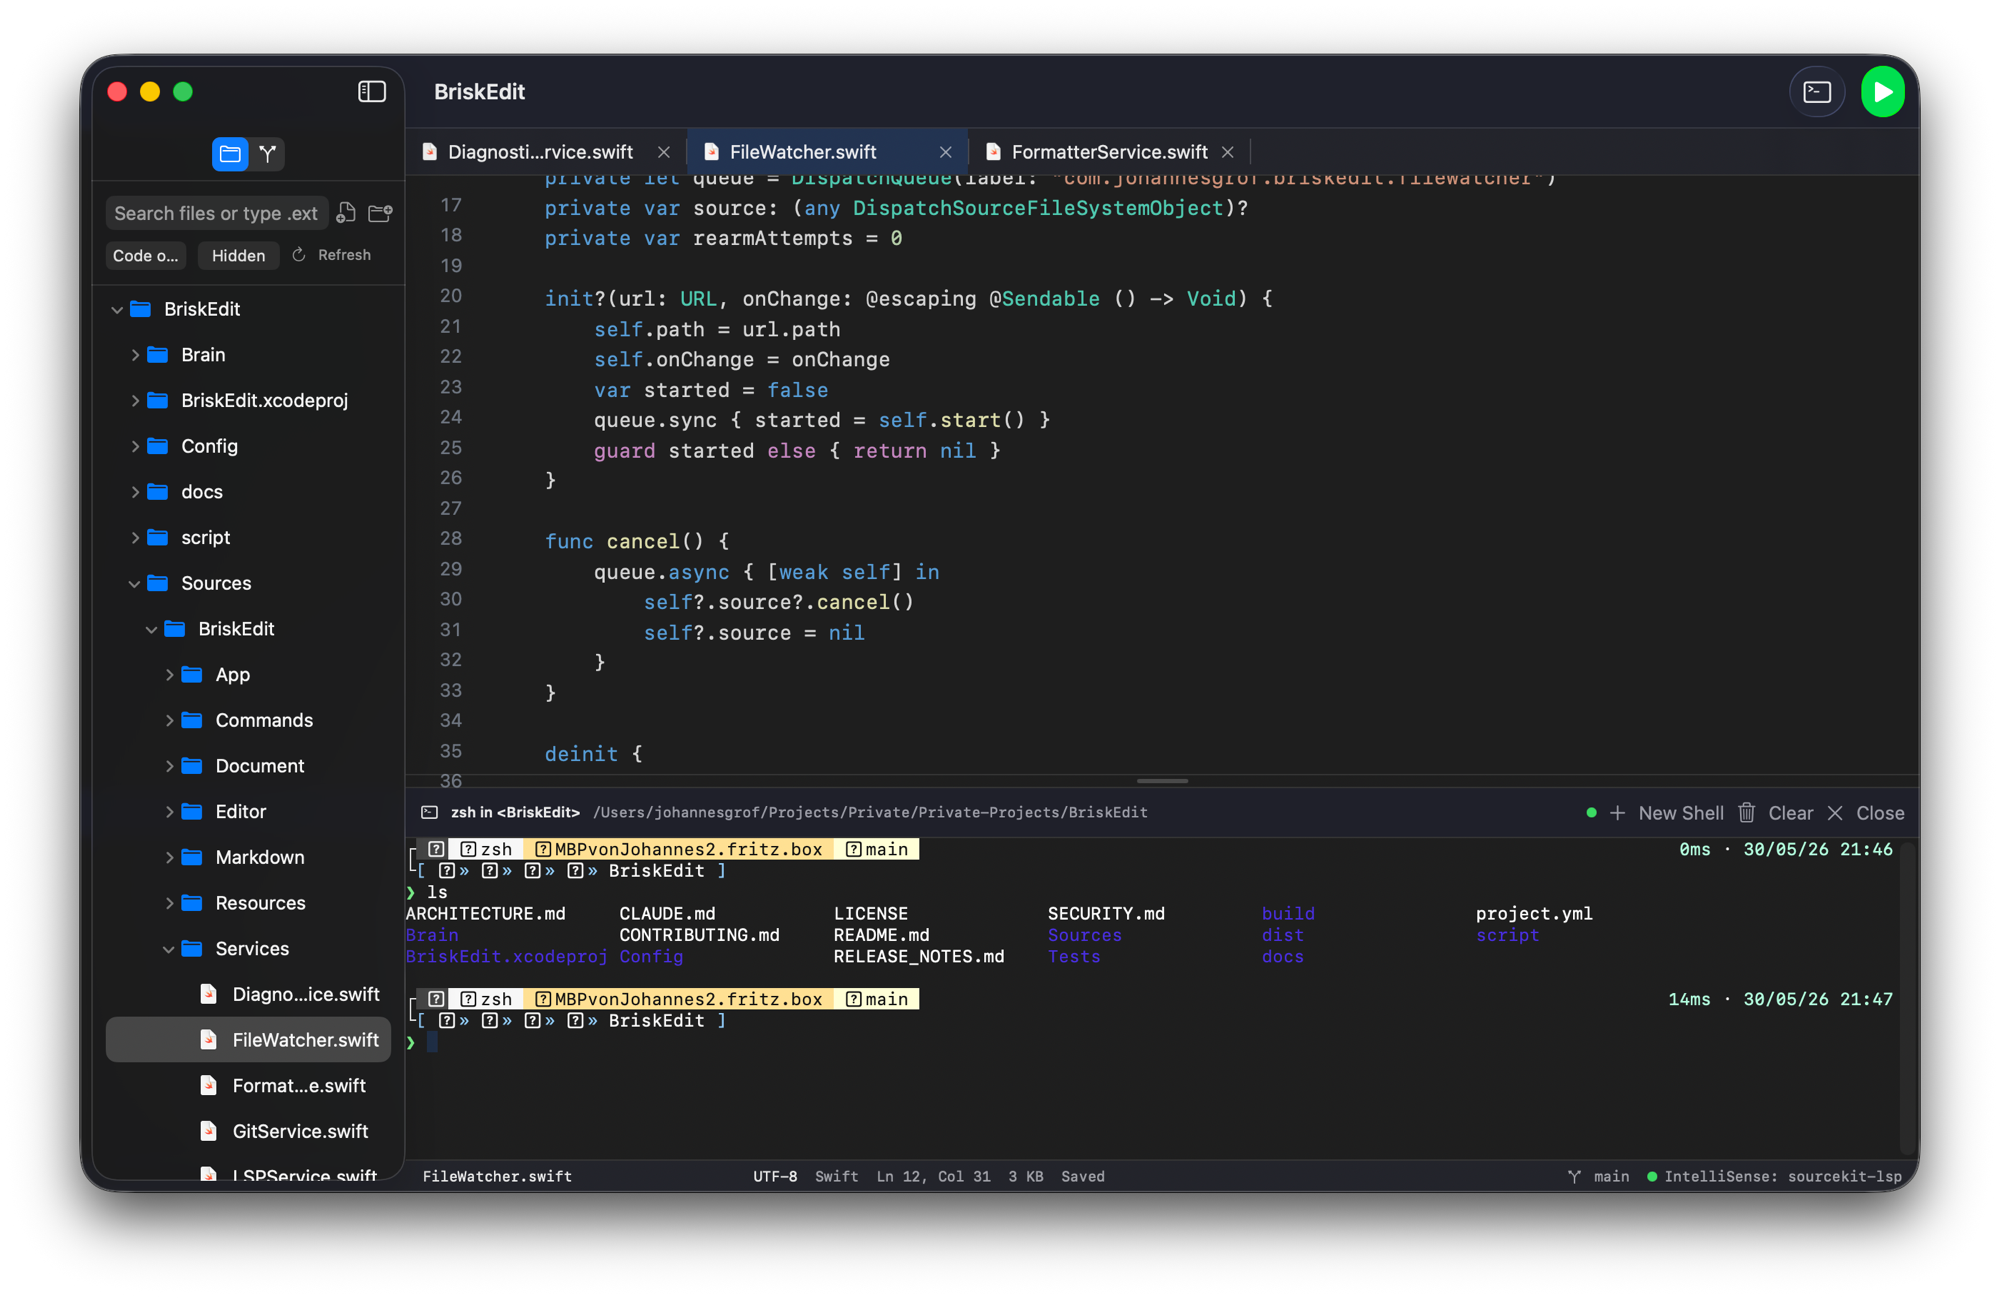
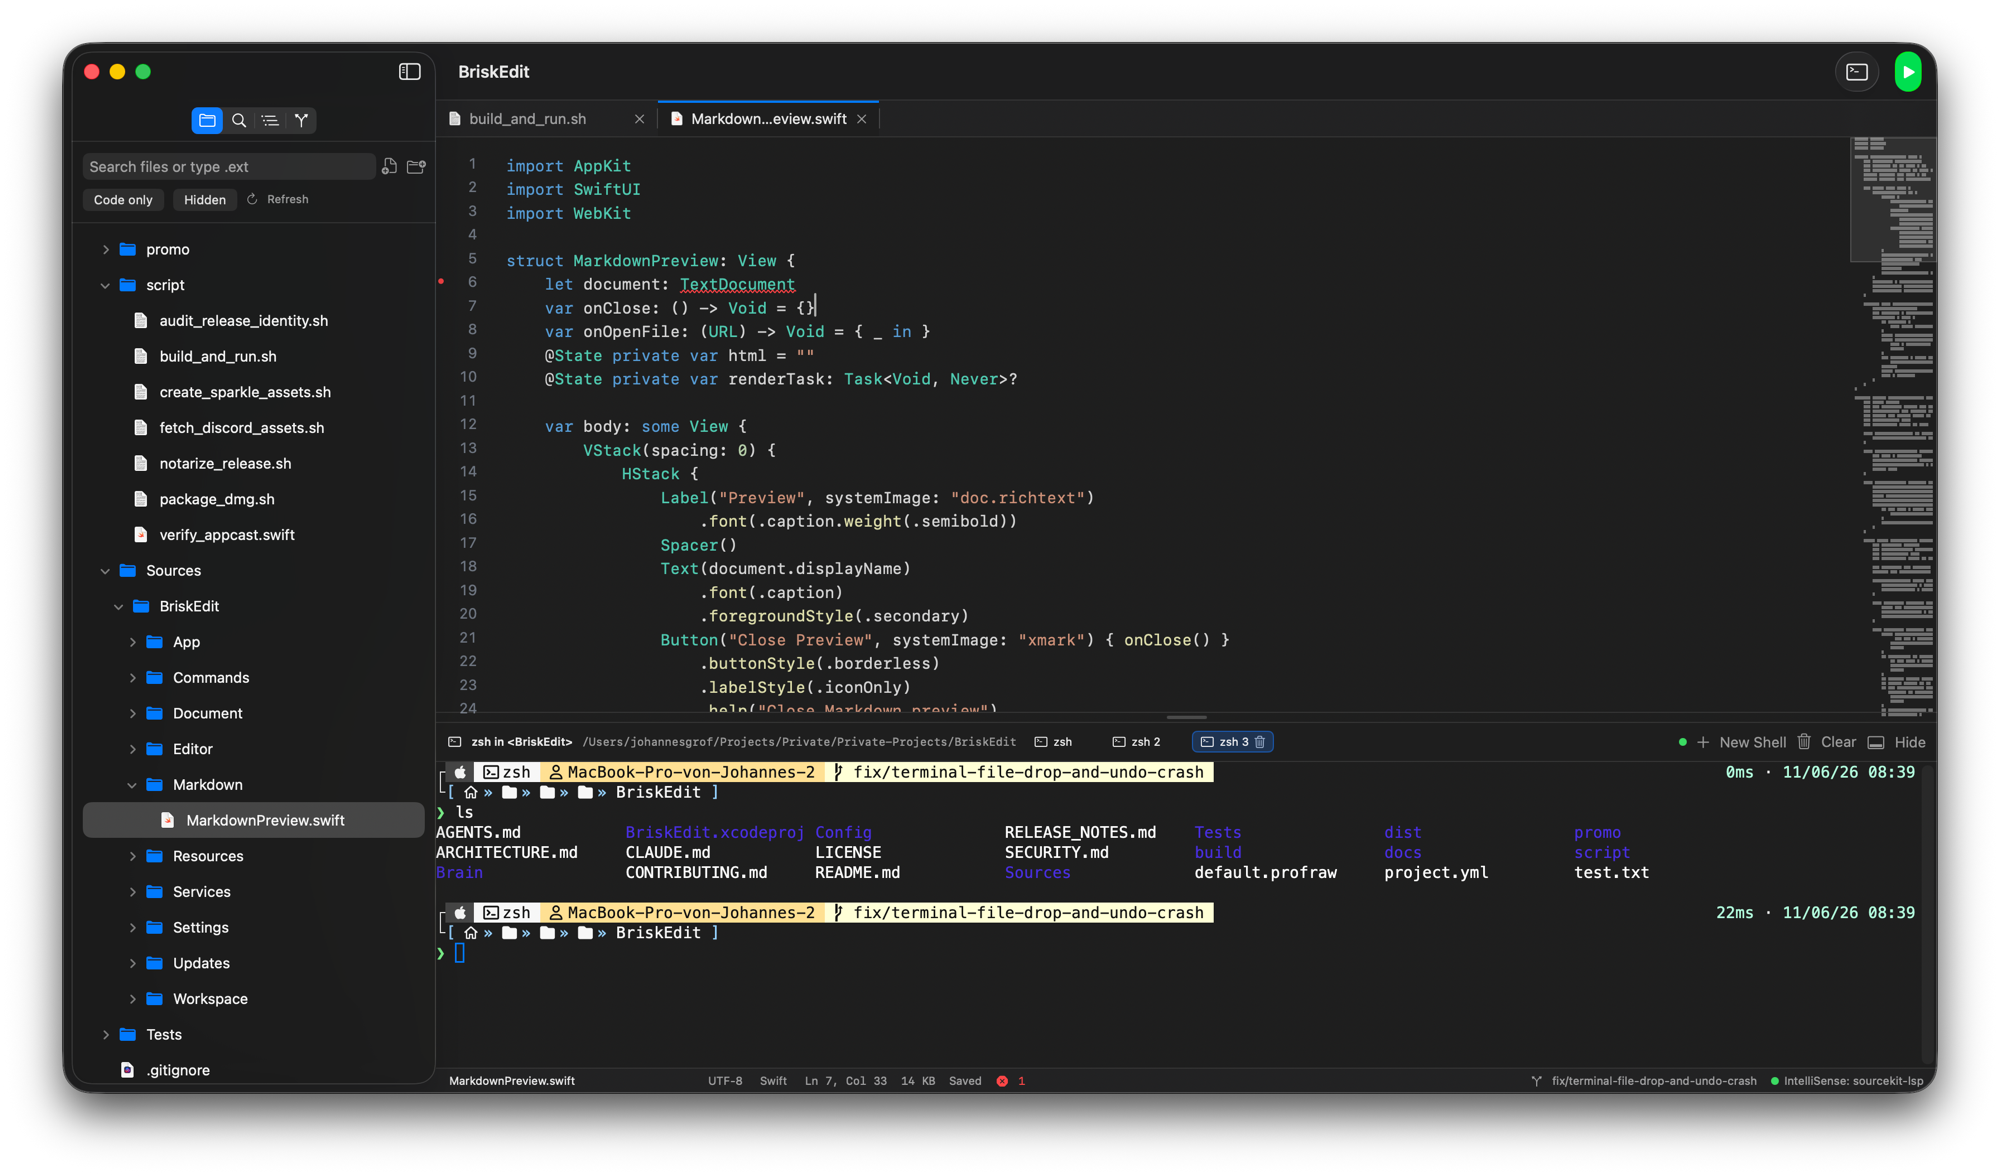
Update BriskEdit showcase image

diff --git a/src/data/projects.ts b/src/data/projects.ts
@@ -468,7 +468,7 @@ export const featuredProjects: Project[] = [
         alt: "BriskEdit editing a Swift file with the file tree, tabs, and integrated terminal",
         fit: "cover",
         width: 2000,
-        height: 1298,
+        height: 1176,
       },
       {
         src: "/projects/briskedit/briskedit-promo.mp4",
